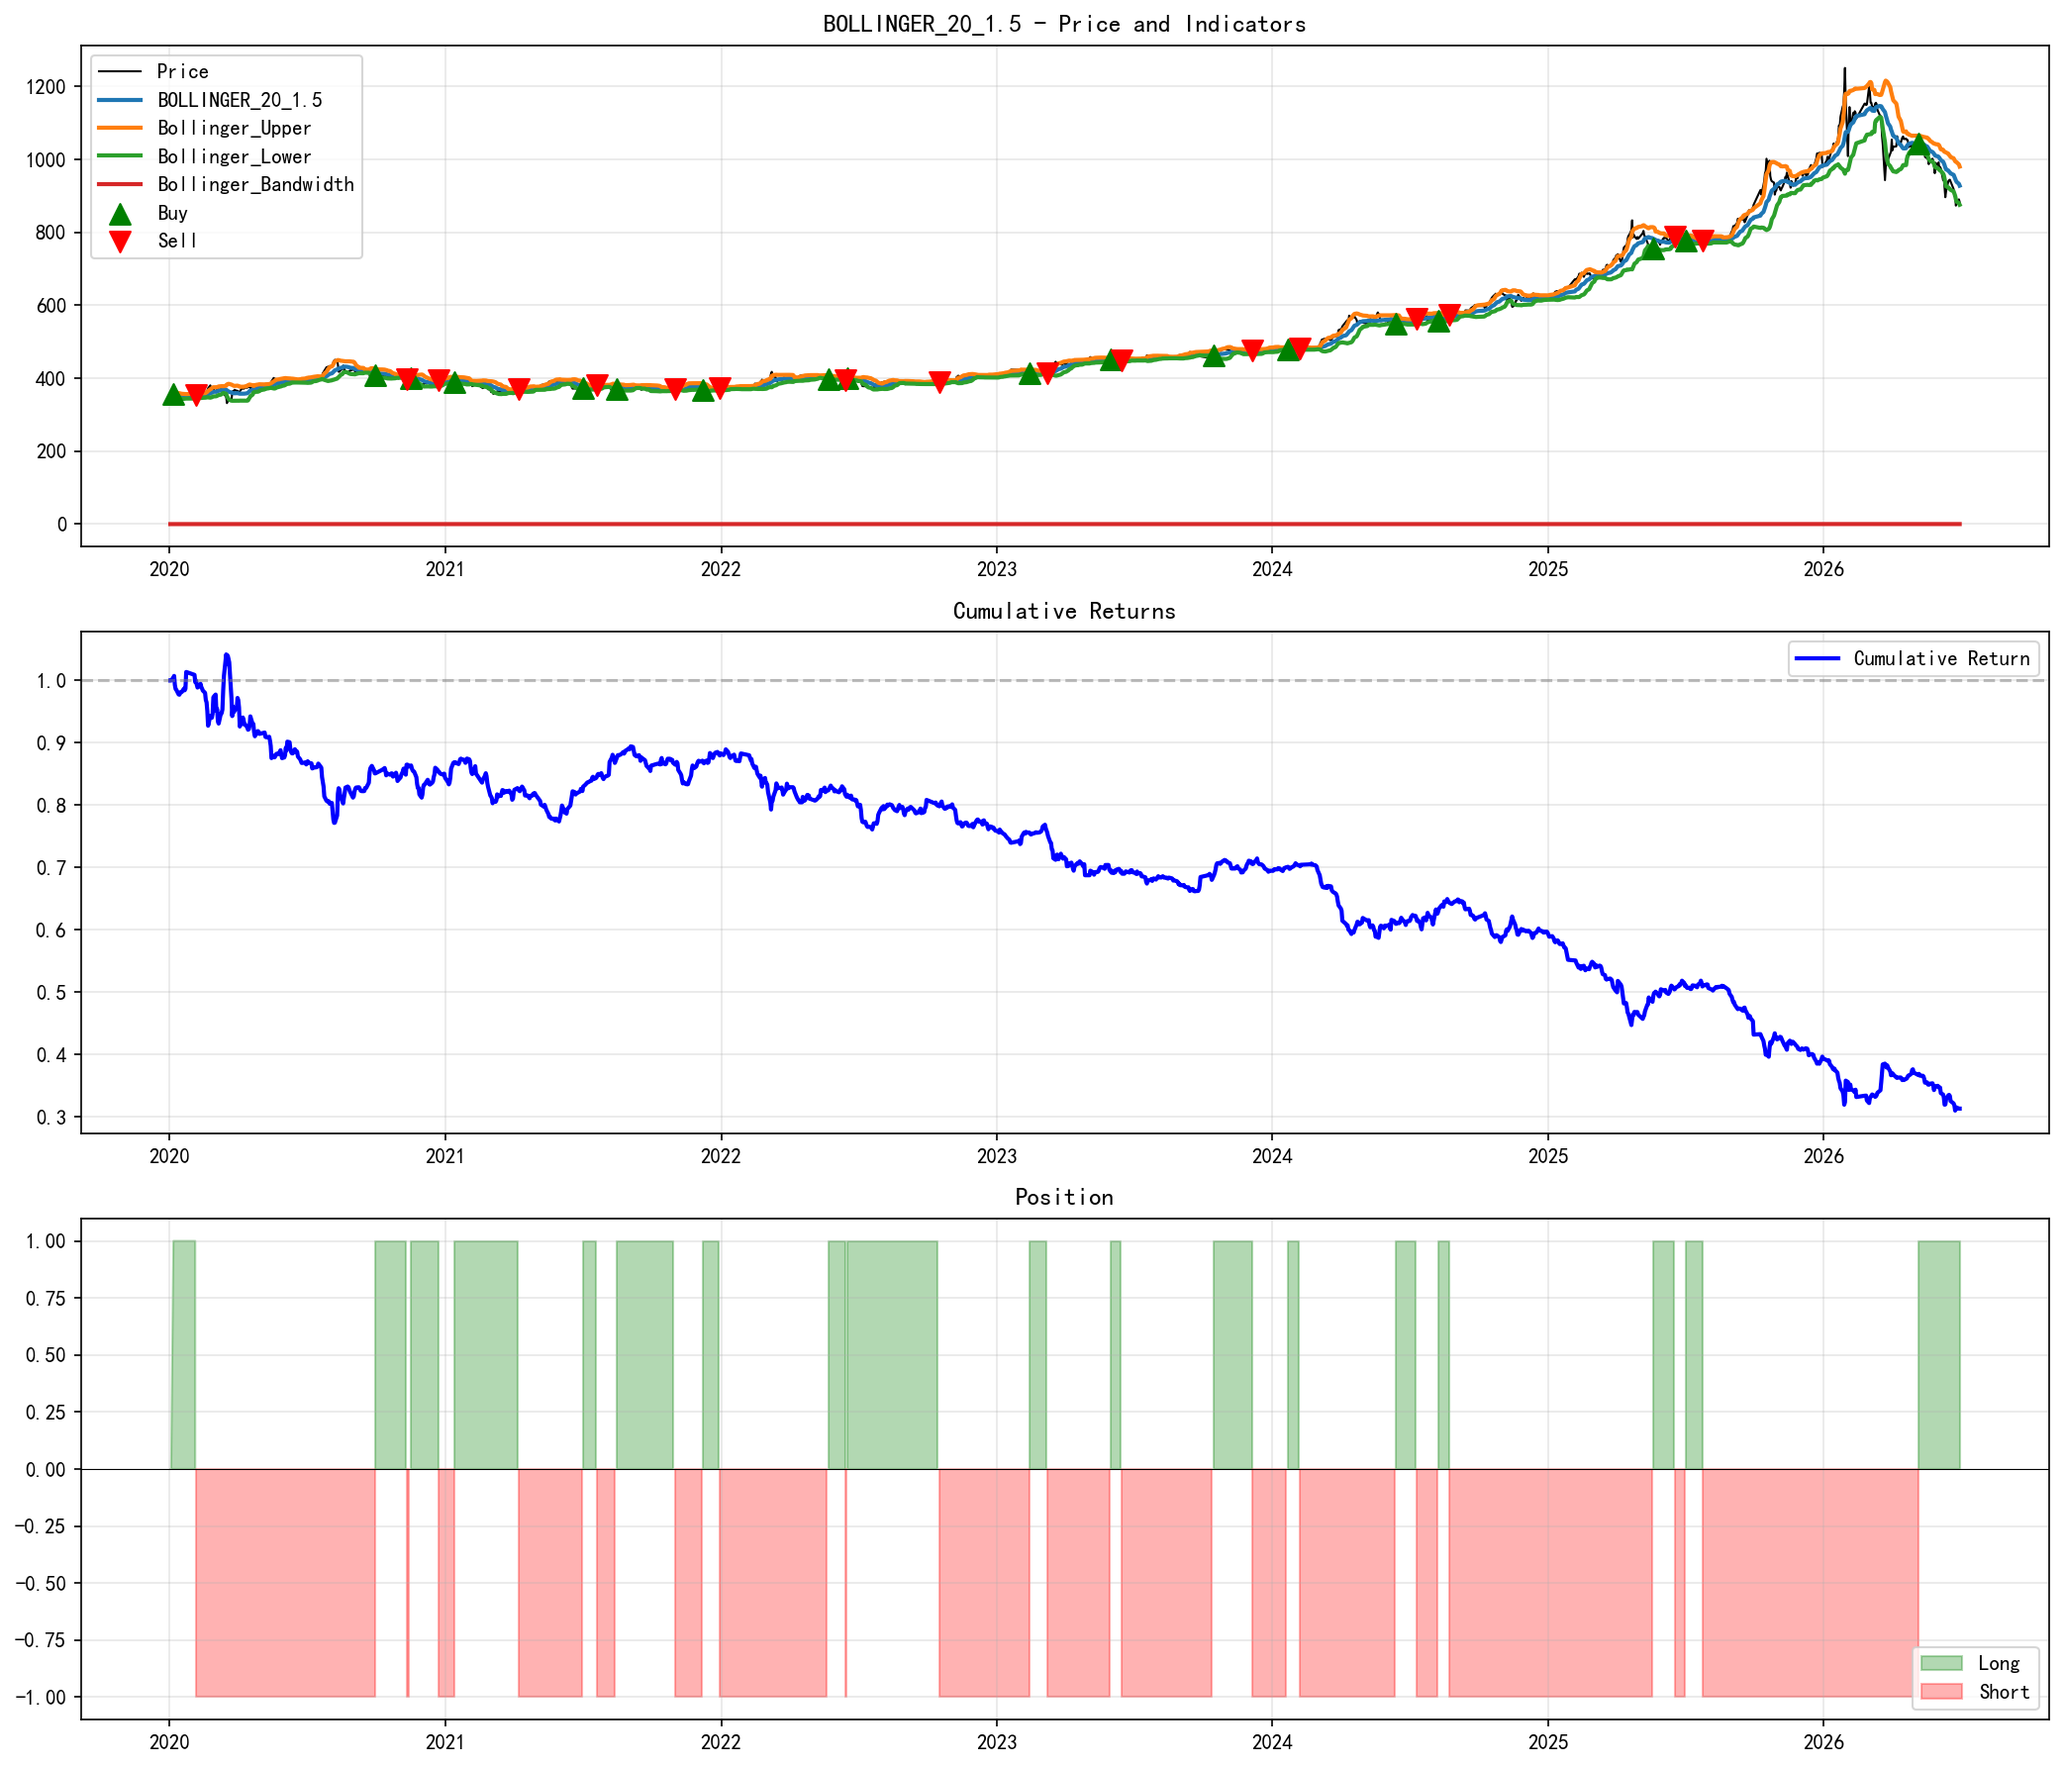
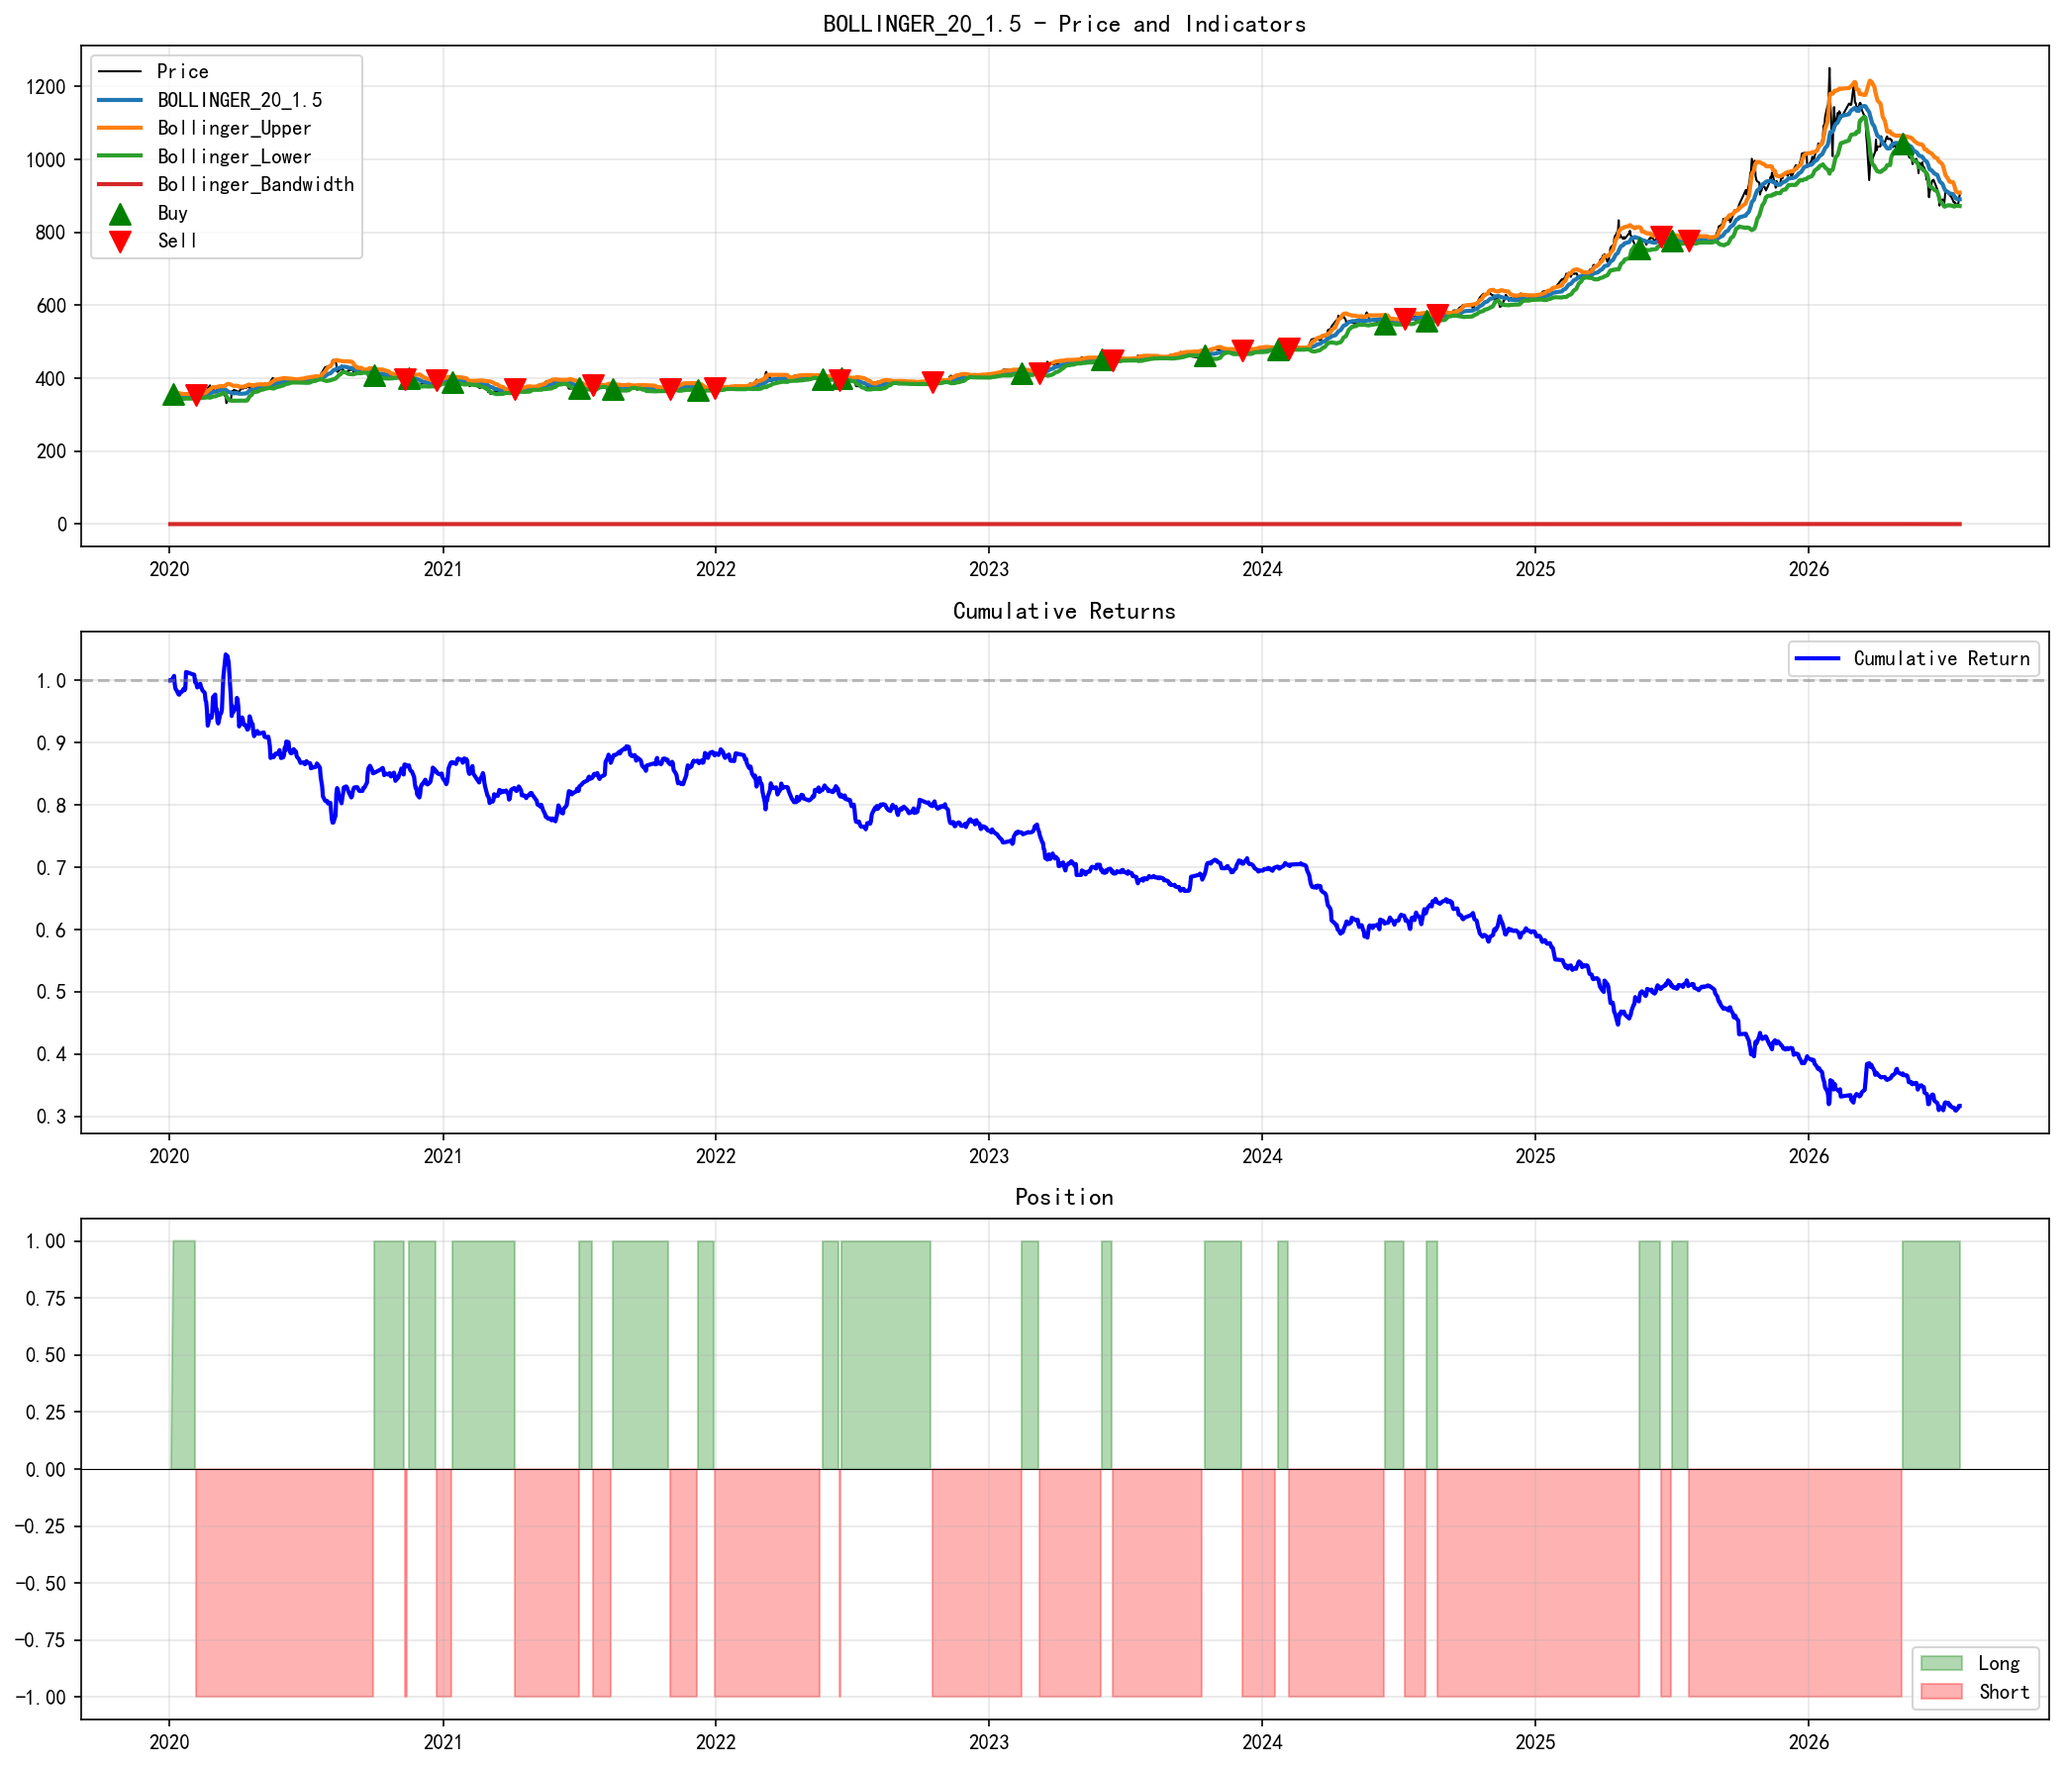
docs: 同步量化回测(2026-07-22)与保证金模型页面及图表更新

diff --git a/project-quant-trading.html b/project-quant-trading.html
@@ -59,7 +59,7 @@
           <div class="stat-label"><span data-lang="cn">回测周期</span><span data-lang="en">Backtest Period</span></div>
         </div>
         <div class="stat-card">
-          <div class="stat-number">183<span style="font-size:1.2rem">%</span></div>
+          <div class="stat-number">179<span style="font-size:1.2rem">%</span></div>
           <div class="stat-label"><span data-lang="cn">最高累积收益</span><span data-lang="en">Best Cumulative Return</span></div>
         </div>
       </div>
@@ -123,26 +123,26 @@
           <tbody>
             <tr>
               <td><strong>TMA (10/30/90)</strong></td>
-              <td class="highlight">182.59%</td>
-              <td class="highlight">17.35%</td>
+              <td class="highlight">178.92%</td>
+              <td class="highlight">16.95%</td>
               <td class="negative">-25.20%</td>
               <td>10</td>
               <td>50.00%</td>
-              <td>16.81%</td>
+              <td>16.71%</td>
             </tr>
             <tr>
               <td><strong>TMA (5/20/60)</strong></td>
-              <td class="highlight">162.87%</td>
-              <td class="highlight">16.05%</td>
+              <td class="highlight">159.45%</td>
+              <td class="highlight">15.66%</td>
               <td class="negative">-22.07%</td>
               <td>14</td>
               <td>42.86%</td>
-              <td>11.46%</td>
+              <td>11.39%</td>
             </tr>
             <tr>
               <td><strong>EWMA Long-Only</strong></td>
               <td class="highlight">114.54%</td>
-              <td class="highlight">12.48%</td>
+              <td class="highlight">12.36%</td>
               <td class="negative">-17.27%</td>
               <td>89</td>
               <td>46.07%</td>
@@ -150,66 +150,66 @@
             </tr>
             <tr>
               <td><strong>Donchian (50)</strong></td>
-              <td class="highlight">86.63%</td>
-              <td class="highlight">10.09%</td>
+              <td class="highlight">84.20%</td>
+              <td class="highlight">9.77%</td>
               <td class="negative">-29.48%</td>
               <td>12</td>
               <td>50.00%</td>
-              <td>7.95%</td>
+              <td>7.86%</td>
             </tr>
             <tr>
               <td><strong>Donchian (20)</strong></td>
-              <td class="highlight">86.33%</td>
-              <td class="highlight">10.06%</td>
+              <td class="highlight">83.90%</td>
+              <td class="highlight">9.75%</td>
               <td class="negative">-23.54%</td>
               <td>22</td>
               <td>54.55%</td>
-              <td>3.22%</td>
+              <td>3.17%</td>
             </tr>
             <tr>
               <td><strong>EWMA Long-Short</strong></td>
-              <td class="highlight">76.16%</td>
-              <td class="highlight">9.11%</td>
+              <td class="highlight">73.87%</td>
+              <td class="highlight">8.81%</td>
               <td class="negative">-19.57%</td>
               <td>179</td>
               <td>36.87%</td>
-              <td>0.38%</td>
+              <td>0.37%</td>
             </tr>
             <tr>
               <td><strong>MACD</strong></td>
-              <td class="highlight">18.76%</td>
-              <td class="highlight">2.68%</td>
+              <td class="highlight">13.17%</td>
+              <td class="highlight">1.91%</td>
               <td class="negative">-18.48%</td>
-              <td>134</td>
-              <td>32.84%</td>
-              <td>0.19%</td>
+              <td>135</td>
+              <td>31.85%</td>
+              <td>0.15%</td>
             </tr>
             <tr>
               <td><strong>RSI</strong></td>
-              <td class="negative">-41.47%</td>
-              <td class="negative">-7.92%</td>
+              <td class="negative">-40.79%</td>
+              <td class="negative">-7.69%</td>
               <td class="negative">-60.84%</td>
               <td>10</td>
               <td>50.00%</td>
-              <td>-7.25%</td>
+              <td>-7.15%</td>
             </tr>
             <tr>
               <td><strong>Bollinger (20, 2.0)</strong></td>
-              <td class="negative">-50.53%</td>
-              <td class="negative">-10.27%</td>
+              <td class="negative">-49.96%</td>
+              <td class="negative">-10.03%</td>
               <td class="negative">-59.37%</td>
               <td>27</td>
               <td>51.85%</td>
-              <td>-2.55%</td>
+              <td>-2.51%</td>
             </tr>
             <tr>
               <td><strong>Bollinger (20, 1.5)</strong></td>
-              <td class="negative">-68.71%</td>
-              <td class="negative">-16.39%</td>
-              <td class="negative">-70.27%</td>
+              <td class="negative">-68.35%</td>
+              <td class="negative">-16.10%</td>
+              <td class="negative">-70.34%</td>
               <td>35</td>
               <td>42.86%</td>
-              <td>-3.33%</td>
+              <td>-3.30%</td>
             </tr>
           </tbody>
         </table>
@@ -229,11 +229,11 @@
       <div class="gallery">
         <div class="gallery-item fade-in">
           <img src="assets/plots/TMA_5_20_60.png" alt="TMA 5/20/60" loading="lazy">
-          <div class="gallery-caption">TMA (5/20/60) — <span data-lang="cn">累积收益 162.87%</span><span data-lang="en">Cumulative Return 162.87%</span></div>
+          <div class="gallery-caption">TMA (5/20/60) — <span data-lang="cn">累积收益 159.45%</span><span data-lang="en">Cumulative Return 159.45%</span></div>
         </div>
         <div class="gallery-item fade-in">
           <img src="assets/plots/TMA_10_30_90.png" alt="TMA 10/30/90" loading="lazy">
-          <div class="gallery-caption">TMA (10/30/90) — <span data-lang="cn">累积收益 182.59%</span><span data-lang="en">Cumulative Return 182.59%</span></div>
+          <div class="gallery-caption">TMA (10/30/90) — <span data-lang="cn">累积收益 178.92%</span><span data-lang="en">Cumulative Return 178.92%</span></div>
         </div>
         <div class="gallery-item fade-in">
           <img src="assets/plots/EWMA_LONG_ONLY_30.png" alt="EWMA Long-Only" loading="lazy">
@@ -241,7 +241,7 @@
         </div>
         <div class="gallery-item fade-in">
           <img src="assets/plots/DONCHIAN_20.png" alt="Donchian 20" loading="lazy">
-          <div class="gallery-caption">Donchian (20) — <span data-lang="cn">累积收益 86.33%</span><span data-lang="en">Cumulative Return 86.33%</span></div>
+          <div class="gallery-caption">Donchian (20) — <span data-lang="cn">累积收益 83.90%</span><span data-lang="en">Cumulative Return 83.90%</span></div>
         </div>
         <div class="gallery-item fade-in">
           <img src="assets/plots/DONCHIAN_50.png" alt="Donchian 50" loading="lazy">

diff --git a/project-margin-model.html b/project-margin-model.html
@@ -65,7 +65,7 @@
           <div class="stat-label"><span data-lang="cn">VaR 置信水平</span><span data-lang="en">VaR Levels</span></div>
         </div>
         <div class="stat-card">
-          <div class="stat-number">~7,924</div>
+          <div class="stat-number">~7,956</div>
           <div class="stat-label"><span data-lang="cn">总交易日数据</span><span data-lang="en">Total Trading Days</span></div>
         </div>
         <div class="stat-card">
@@ -136,11 +136,11 @@
       <div class="gallery" style="grid-template-columns: repeat(auto-fit, minmax(400px, 1fr))">
         <div class="gallery-item fade-in">
           <img src="assets/plots/margin_model_Au.png" alt="Au Backtest" loading="lazy">
-          <div class="gallery-caption"><span data-lang="cn">黄金 (Au) — 2008-01-09 ~ 2026-07-01</span><span data-lang="en">Gold (Au) — 2008-01-09 ~ 2026-07-01</span></div>
+          <div class="gallery-caption"><span data-lang="cn">黄金 (Au) — 2008-01-09 ~ 2026-07-23</span><span data-lang="en">Gold (Au) — 2008-01-09 ~ 2026-07-23</span></div>
         </div>
         <div class="gallery-item fade-in">
           <img src="assets/plots/margin_model_Ag.png" alt="Ag Backtest" loading="lazy">
-          <div class="gallery-caption"><span data-lang="cn">白银 (Ag) — 2012-05-10 ~ 2026-07-01</span><span data-lang="en">Silver (Ag) — 2012-05-10 ~ 2026-07-01</span></div>
+          <div class="gallery-caption"><span data-lang="cn">白银 (Ag) — 2012-05-10 ~ 2026-07-23</span><span data-lang="en">Silver (Ag) — 2012-05-10 ~ 2026-07-23</span></div>
         </div>
       </div>
     </div>
@@ -167,15 +167,15 @@
               <td><strong>Au</strong></td>
               <td><span data-lang="cn">方法一（含阈值）</span><span data-lang="en">Method 1 (w/ threshold)</span></td>
               <td>87</td>
-              <td>4,488</td>
-              <td>1.94%</td>
+              <td>4,504</td>
+              <td>1.93%</td>
               <td>8</td>
             </tr>
             <tr>
               <td><strong>Au</strong></td>
               <td><span data-lang="cn">方法二（η=1.8）</span><span data-lang="en">Method 2 (η=1.8)</span></td>
               <td>39</td>
-              <td>4,488</td>
+              <td>4,504</td>
               <td>0.87%</td>
               <td>5</td>
             </tr>
@@ -183,16 +183,16 @@
               <td><strong>Ag</strong></td>
               <td><span data-lang="cn">方法一（含阈值）</span><span data-lang="en">Method 1 (w/ threshold)</span></td>
               <td>57</td>
-              <td>3,436</td>
-              <td>1.66%</td>
+              <td>3,452</td>
+              <td>1.65%</td>
               <td>10</td>
             </tr>
             <tr>
               <td><strong>Ag</strong></td>
               <td><span data-lang="cn">方法二（η=1.8）</span><span data-lang="en">Method 2 (η=1.8)</span></td>
               <td>27</td>
-              <td>3,436</td>
-              <td>0.79%</td>
+              <td>3,452</td>
+              <td>0.78%</td>
               <td>1</td>
             </tr>
           </tbody>
